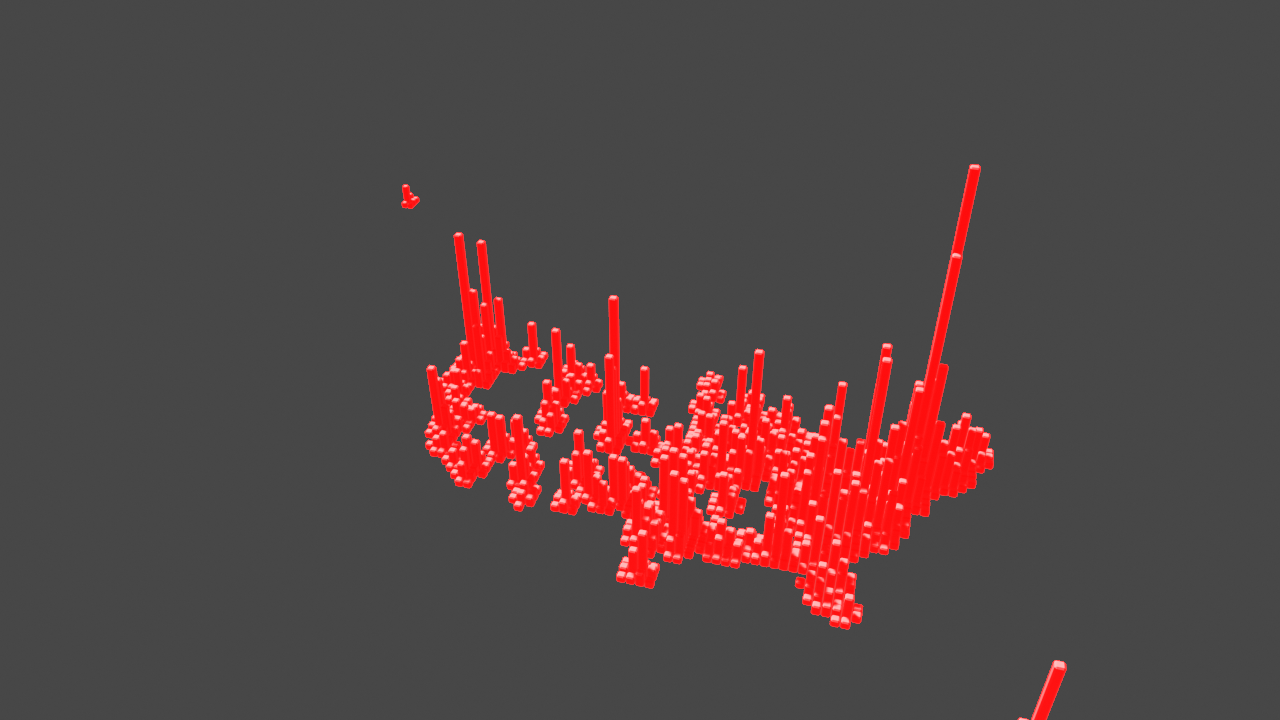
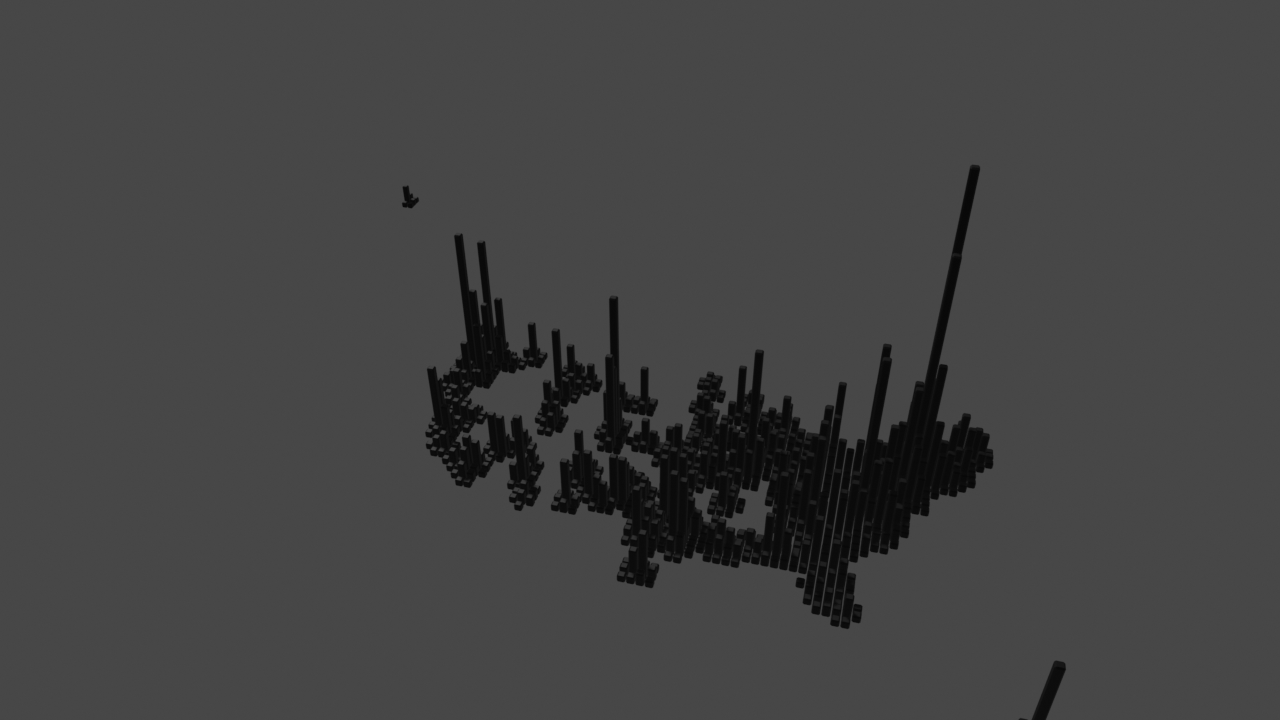
migrated to blender 2.8 materials

Changed region(s): [[0.3125, 0.2139, 0.7812, 0.8861], [0.7812, 0.9167, 0.8438, 1.0], [0.3125, 0.2444, 0.3438, 0.3056]]

diff --git a/render_osm_data.py b/render_osm_data.py
@@ -99,8 +99,8 @@ def heatmap_barplot(grid, h=4, width=10, bar_scale=0.9, num_colors=10, colormap=
 
         # Create material with colormap
         color = colormap(i / num_colors)
-        mat = utils.simple_material(color[:4])
-        #obj.data.materials.append(mat)
+
+        mat = utils.simple_material(color[:4], i)
         obj.active_material = mat
 
         objList.append(obj)
@@ -108,7 +108,6 @@ def heatmap_barplot(grid, h=4, width=10, bar_scale=0.9, num_colors=10, colormap=
         # Add bevel modifier
         bevel = obj.modifiers.new('Bevel', 'BEVEL')
         bevel.width = bevel_width
-
 
 if __name__ == '__main__':
     # Settings
@@ -154,7 +153,7 @@ if __name__ == '__main__':
     sun = utils.create_lamp((-5, 5, 10), 'SUN', target=target)
 
     # Set background color
-    bpy.context.scene.world.color = (0.7, 0.7, 0.7)
+    bpy.context.scene.world.color = (0.7, 0.8, 0.9)
 
     # Ambient occlusion
     bpy.context.scene.world.light_settings.use_ambient_occlusion = True
@@ -205,4 +204,5 @@ if __name__ == '__main__':
     # Render result
     utils.render_to_folder(render_folder, render_name, res_x=res_x, res_y=res_y, animation=animation, frame_end=num_frames, render_opengl=False)
 
+    # save as blender file
     bpy.ops.wm.save_as_mainfile(filepath="T:/projects/pseekoo/openstreetmap-heatmap/test.blend")

diff --git a/lib/utils.py b/lib/utils.py
@@ -1,22 +1,33 @@
 import os
 import bpy
 
-def simple_material(diffuse_color):
+def simple_material(diffuse_color, index=0):
 
-    mat = bpy.data.materials.get('Material')
+    materialName = 'Material ' + str(index)
+    mat = bpy.data.materials.get(materialName)
     if mat is None:
-        mat = bpy.data.materials.new('Material')
+        mat = bpy.data.materials.new(materialName)
+        mat.use_nodes = True
 
     # Diffuse
     # mat.diffuse_shader = 'LAMBERT'
     # mat.diffuse_intensity = 0.9
-    mat.diffuse_color = diffuse_color
 
-    principled_bsdf = mat.node_tree.nodes.get('Principled BSDF')
-    if principled_bsdf is not None:
-        principled_bsdf.inputs[0].default_value = (255, 0, 0, 0.9)
+    node_tree = mat.node_tree
+    nodes = node_tree.nodes
 
-        # Specular
+    bsdf = nodes.get('Principled BSDF')
+    if bsdf is not None:
+        bsdf.inputs[0].default_value = diffuse_color # (255, 0, 0, 0.9)
+
+    #vcol = nodes.new(type="ShaderNodeVertexColor")
+    #vcol.layer_name = "VColor " + str(index)  # the vertex color layer name
+
+    # make links
+
+    #node_tree.links.new(vcol.outputs[0], bsdf.inputs[0])
+
+    # Specular
     # mat.specular_intensity = 0
 
     return mat
